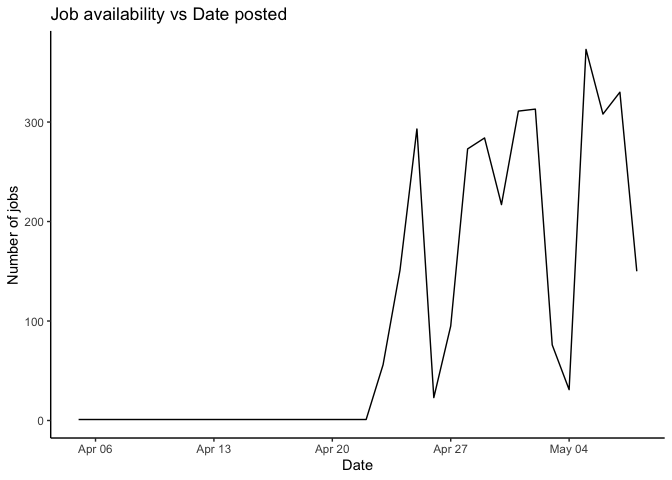
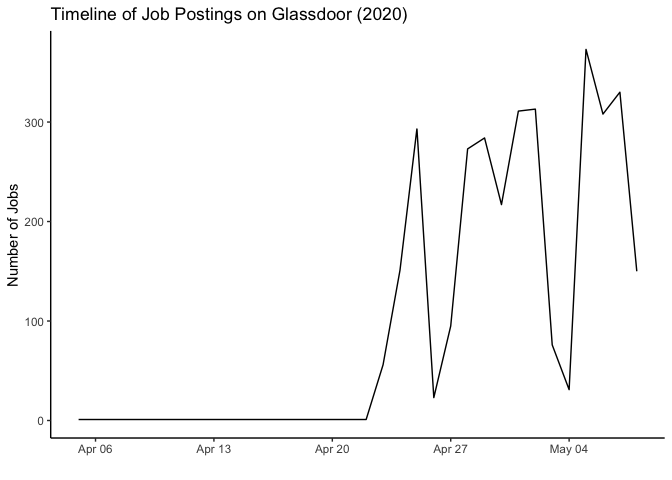
Updating time series graph

Changed region(s): [[0.0625, 0.0, 0.5938, 0.0625], [0.0, 0.375, 0.0312, 0.5938], [0.5, 0.9375, 0.5625, 1.0]]

diff --git a/3_Results/3_7_Limitations.md b/3_Results/3_7_Limitations.md
@@ -1,29 +1,27 @@
-3\_7\_Limitations
+Limitations
 ================
+
+This file contains the graphs related to the limitations within our
+analysis.
 
 # Time series analysis
 
-This data about the job postings are listed from glassdoor scraped
-during covid time. According to the glassdoor findings, there were very
-few jobs posted around April end and there’s a sudden rise the upcoming
-week. It’s very clear that the job market was not stable during the
-pandemic.
+This data about the job postings are listed from Glassdoor scraped
+during the Covid-19 pandemic. According to the Glassdoor findings, there
+were very few jobs posted in the beginning of April and then there is a
+sudden rise at the end of April. It’s very clear that the job market was
+not stable during the pandemic and jobs were only scraped for a small
+period of time.
 
 ``` r
 table_date_posted <- data.frame(table(ds_jobs$date_posted))
 table_date_posted$Var1 <- as.Date(table_date_posted$Var1, format = "%Y-%m-%d") 
-class(table_date_posted$Var1)
-```
-
-    ## [1] "Date"
-
-``` r
 ggplot(table_date_posted, aes(x = Var1, y = Freq)) +
   geom_line() +
   theme_classic() +
-  labs(title = "Job availability vs Date posted",
-       x = "Date",
-       y = "Number of jobs")
+  labs(title = "Timeline of Job Postings on Glassdoor (2020)",
+       x = "",
+       y = "Number of Jobs")
 ```
 
 ![](3_7_Limitations_files/figure-gfm/unnamed-chunk-2-1.png)<!-- -->
